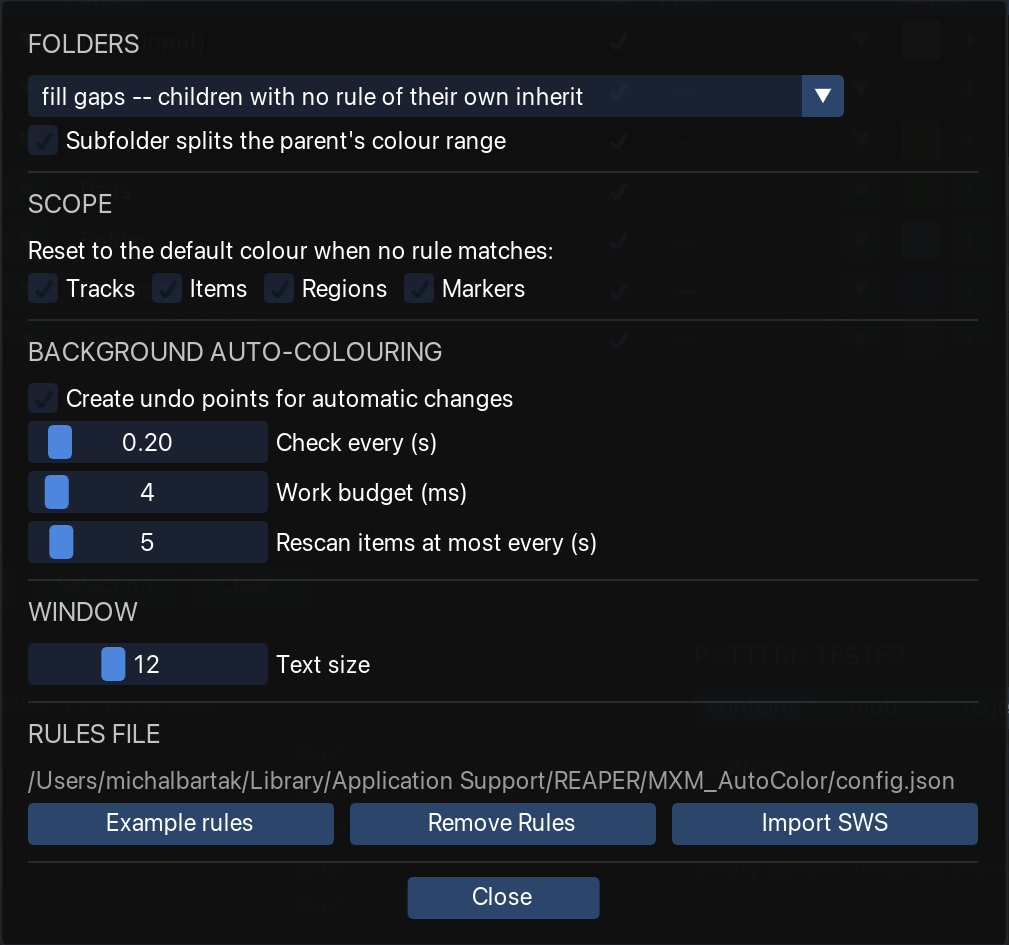
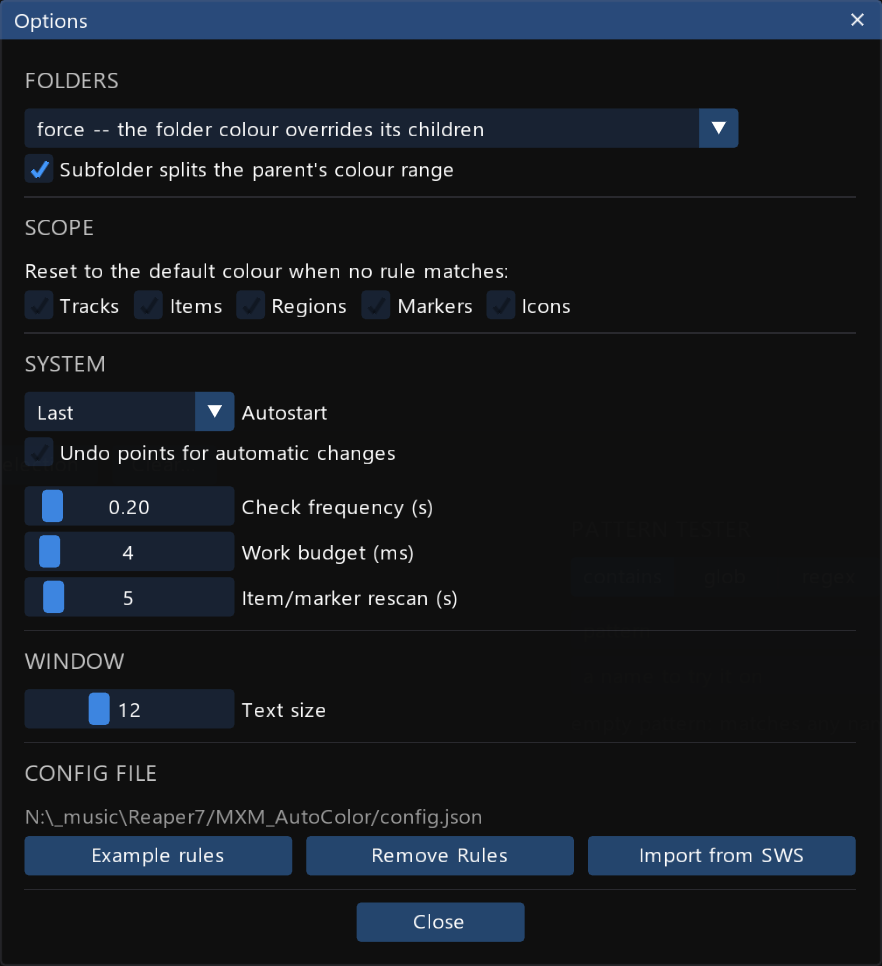
Options wording, start-up block markers, wider filter column
The timing settings are renamed (Check frequency, Item/marker rescan) and
their tooltips and docs state what each delays: a track rename waits only for
the next check, an item, region or marker renamed in place for the rescan. The
__startup.lua block uses BEGIN/END markers and is set off by a blank line. The
Filter column is widened to fit its labels in the Windows UI font. Changelog
regrouped; Options screenshot updated.

Changed region(s): [[0.0, 0.0, 1.0, 0.982]]

diff --git a/docs/src/content/docs/usage/auto-apply.md b/docs/src/content/docs/usage/auto-apply.md
@@ -11,8 +11,8 @@ renames. Running the action again stops it. The toolbar button lights while it r
 - **It never reverts a hand-set colour or icon.** Once an object's colour stops matching what the
   tool last wrote, its name unchanged, the loop leaves that colour alone until the next rename. A
   track icon is tracked the same way, separately.
-- It adds **no undo points**, to keep a rename from shredding the undo history. *Create undo points
-  for automatic changes* in [Options](/Reaper-AutoColor/configuration/) enables them.
+- It adds **no undo points**, to keep a rename from shredding the undo history. *Undo points for
+  automatic changes* in [Options](/Reaper-AutoColor/configuration/) enables them.
 - It writes nothing when nothing changed, and pauses entirely **while recording**, record-pause
   included.
 - It sweeps tracks immediately. Items and regions follow once the project has settled, in
@@ -41,8 +41,7 @@ launch: **Never**, **Always**, or **Last** (default). The window and the
 runs `MXM_AutoColor_Startup.lua`.
 
 :::note[Uninstalling]
-The entry does nothing once the scripts are gone. To remove it, delete the lines between
-`-- MXM_AutoColor begin` and `-- MXM_AutoColor end` in `Scripts/__startup.lua`.
+The entry in `Scripts/__startup.lua` does nothing once the scripts are gone. To remove it, delete the lines between `-- MXM_AutoColor BEGIN` and `-- MXM_AutoColor END`.
 :::
 
 ## What it re-reads, and when
@@ -52,15 +51,16 @@ exactly like a rename. The loop works around that rather than re-reading everyth
 
 | | When it is re-read |
 |---|---|
-| **Tracks** | On every change, because a rename is visible only by reading names. Re-planned only when what it read differs. |
-| **Items and regions** | Only when something says they need it: one appeared or vanished, a track changed, or **Rescan items at most every (s)** has elapsed. |
+| **Tracks** | At the next check after any change, because a rename is visible only by reading names. Re-planned only when what it read differs. |
+| **Items, regions and markers** | Once the project has settled, and only when something says they need it: one appeared or vanished, a track changed, or **Item/marker rescan (s)** has elapsed. |
 
-The rescan interval is 5 s by default. The only thing waiting on it is an item **renamed in place**,
-which nothing cheaper can detect. 0 re-reads everything on every change: correct, and slow on a
+The rescan interval is 5 s by default. The only thing waiting on it is an item, region or marker
+**renamed in place**, which nothing cheaper can detect. 0 re-reads everything on every change: correct, and slow on a
 large project.
 
-`Check every (s)` and `Work budget (ms)` in [Options](/Reaper-AutoColor/configuration/) control how
-often the loop wakes and how long it may work before yielding.
+`Check frequency (s)` in [Options](/Reaper-AutoColor/configuration/) sets how often the
+project is checked, and so the delay before a track rename is picked up. `Work budget (ms)` limits
+how long one check may spend on items, regions and markers before yielding.
 
 :::caution[Gradients on items]
 A gradient cannot be computed incrementally: moving one member re-plans the whole range. A gradient

diff --git a/docs/src/content/docs/configuration/index.md b/docs/src/content/docs/configuration/index.md
@@ -46,17 +46,13 @@ Recommended for **items**, where it makes an item follow its track live. Note th
 
 | Setting | Default | What it does |
 |---|---|---|
-| **Create undo points for automatic changes** | off | Adds an undo point per automatic recolour. Off by default, to keep a rename from shredding the undo history; the rules can always re-derive the colours. |
-| **Check every (s)** | 0.20 | How often the loop wakes. |
-| **Work budget (ms)** | 4 | How long it may work before yielding back to REAPER. |
-| **Rescan items at most every (s)** | 5 | The delay before an item *renamed in place* is noticed. `0` re-reads everything on every change. |
+| **Autostart** | Last | Behavior on Reaper start. Possible options: *Never*, *Always* or *Last*. [Auto-apply](/Reaper-AutoColor/usage/auto-apply/#starting-with-reaper) covers the `__startup.lua` entry it relies on. |
+| **Undo points for automatic changes** | off | Adds an undo point per automatic recolour. Off by default, to keep a rename from shredding the undo history; the rules can always re-derive the colours. |
+| **Check frequency (s)** | 0.20 | How often the project is checked: the only delay before a track rename is picked up. |
+| **Work budget (ms)** | 4 | How long one check may spend on items, regions and markers. The rest carries over to the next check. |
+| **Item/marker rescan (s)** | 5 | The delay before an item, region or marker *renamed in place* is noticed. `0` re-reads them on every change. [Auto-apply](/Reaper-AutoColor/usage/auto-apply/) explains what the loop re-reads and why the rescan interval exists.|
 
-[Auto-apply](/Reaper-AutoColor/usage/auto-apply/) explains what the loop re-reads and why the rescan
-interval exists.
 
-**Autostart** is *Never*, *Always* or *Last* (default): the state at the last shutdown.
-[Auto-apply](/Reaper-AutoColor/usage/auto-apply/#starting-with-reaper) covers the `__startup.lua`
-entry it relies on.
 
 ## Window
 

diff --git a/README.md b/README.md
@@ -15,7 +15,7 @@ since SWS's substring-and-first-match-wins is a special case of this.
 
 | | |
 |---|---|
-| [Requirements](https://michal-bartak.github.io/Reaper-AutoColor/requirements/) | REAPER 7; ReaImGui 0.10+, for the configuration window only |
+| [Requirements](https://michal-bartak.github.io/Reaper-AutoColor/requirements/) | REAPER 7.03+; ReaImGui 0.10+, for the configuration window only |
 | [Installation](https://michal-bartak.github.io/Reaper-AutoColor/installation/) | ReaPack, or copy `Reaper/` over your resource path |
 | [Usage](https://michal-bartak.github.io/Reaper-AutoColor/usage/) | the rule list, matching, colours, applying, auto-apply |
 | [Configuration](https://michal-bartak.github.io/Reaper-AutoColor/configuration/) | options, the rules file, the REAPER preferences that interfere |

diff --git a/docs/src/content/docs/troubleshooting.md b/docs/src/content/docs/troubleshooting.md
@@ -69,9 +69,9 @@ Run `MXM_AutoColor_AutoToggle.lua` once from the Action List. Until REAPER has r
 does not know its own command ID and the button can only report state. After that it starts and
 stops the loop.
 
-## An item renamed in place did not recolour
+## An item or marker renamed in place did not recolour
 
-Items and regions are re-read on a timer — **Rescan items at most every (s)**, 5 s by default —
+Items, regions and markers are re-read on a timer — **Item/marker rescan (s)**, 5 s by default —
 because REAPER reports only one project-wide "something changed" counter, and re-reading every item
 on every change is expensive. Renaming in place is the one edit nothing cheaper detects. A lower
 interval, or **Apply now**, resolves it. See
